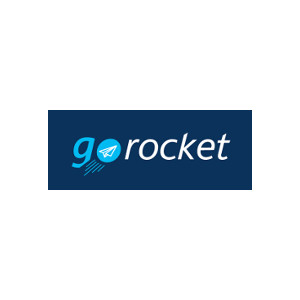
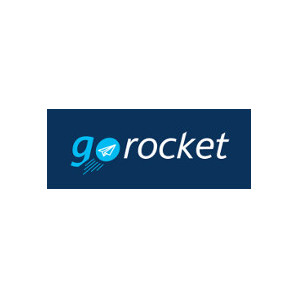
latest commit

Changed region(s): [[0.15, 0.36, 0.84, 0.66], [0.24, 0.42, 0.78, 0.6]]

diff --git a/index.html b/index.html
@@ -62,7 +62,7 @@
 
       <!-- logo -->
       <h1 class="navbar-brand">
-        <a href="#body">irabu</a>
+        <a href="#home">irabu</a>
       </h1>
       <!-- /logo -->
             </div>
@@ -93,13 +93,16 @@
           <div class="row">
 
 
-            <img class="design-icon" src="assets/img/design-color_vector.svg">
+            <!-- <img class="design-icon" src="assets/img/design-color_vector.svg"> -->
             <h1>
-                <span class="span-software">We <span class="design-develop">design and develop</span> <b>SOFTWARE</b><br></span>
-                that aims to <b>SIMPLIFY</b>
+                <span class="span-software"> <b>SOFTWARE</b><br></span>
+                for <b>SIMPLICITY</b>
             </h1>
-            <p>Human centered Software design and implementation that aims at solving a problem with ease</p>
-            <button class="btn btn-default btn-lg action-button hidden" type="button">Learn More</button>
+
+            <br>
+            <h2>
+              Human centered Software design and implementation that aims at solving a problem with ease</h2>
+
               </div>
         </div>
       </div>
@@ -110,8 +113,7 @@
 				<div class="container">
 					<div class="row">
             <div class="text-center">
-              <p class="lead">The Irabu Team consists of designers, developers, technologists, strategists, engineers to writers,  and product developers - but most of all we are thirsty problem solvers with an innate desire to simplify.
-</p>
+              <p class="lead">We are a creative digital agency that is fueled by imagination. We are composed of creative designers and experienced developers.</p>
 
             </div>
 
@@ -135,7 +137,7 @@
       								<div class="service-icon">
       									<i class="fa fa-comments-o  fa-3x"></i>
       								</div>
-      								<h3>Consultation</h3>
+      								<h3>IT Consultation</h3>
       								<p>Help our clients to identify and solve critical technology issues. </p>
       							</div>
       						</div>
@@ -146,7 +148,7 @@
       									<i class="fa fa-desktop  fa-3x"></i>
       								</div>
       								<h3>Web Design and Development</h3>
-      								<p>Lorem Ipsum is simply dummy text of the printing and typesetting industry. </p>
+      								<p>We use creative design thinking to help our clients' tie their brand to their customers.  </p>
       							</div>
       						</div>
 
@@ -268,9 +270,11 @@
           <div class="row">
 
             <div class="sec-title text-center wow animated fadeInDown animated" style="visibility: visible; animation-name: fadeInDown;">
-              <h2>Our Team</h2>
-              <!-- <p>Innovative. Talented. Inspired. Dynamic. Critical. Honest. Eclectic. Temperamental. Crazy. Outlandish. Loud. Enthusiastic. Creative…</p> -->
-              <p class="lead">And these are the people behind all the magic.</p>
+              <h2>WHO DOES IT</h2>
+              <p class="lead">We work side by side as a team , together with our clients to provide inspired digital soluitions.
+                <br>
+No one can do it alone</p>
+              <p class="lead">These are the people behind all the magic.</p>
             </div>
 
           </div>
@@ -312,7 +316,7 @@
 
                   </div>
 
-                  <div class="row animated fadeInUp animated">
+                  <div class="row animated fadeInUps animated">
 
                       <div class="col-md-4 col-md-offset-2">
                           <img src="assets/img/team/loope.jpg" class="img img-responsive" alt="">
@@ -339,37 +343,47 @@
         </div>
       </section>
 
+      <section class="tagline text-center">
+
+        <blockquote cite="http://">
+           <p class="lead">   Whatever good things we build end up building us</p>
+          </blockquote>
+          <p class="tagline_desc"> Jim Ron </p>
+
+
+    </section>
+
       <section id="portfolio">
-  <div class="container">
-    <div class="row">
+        <div class="container">
+          <div class="row">
 
-      <div class="sec-title text-center wow animated fadeInDown animated" style="visibility: visible; animation-name: fadeInDown;">
-        <h2>What We Have Done</h2>
-        <p class="lead">A glimpse at some of the companies we have worked with.</p>
-      </div>
-
-
-
-        <div class="owl-carousel owl-theme">
-        <div > <img src="assets/img/clients/kinu.png" alt="" class="img-responsive"> </div>
-        <div > <img src="assets/img/clients/pacps.png" alt="" class="img-responsive"> </div>
-        <div > <img src="assets/img/clients/gorocket2.jpg" alt="" class="img-responsive"> </div>
-        <div > <img src="assets/img/clients/wn.png" alt="" class="img-responsive"> </div>
-
-        <div > <img src="assets/img/clients/tahmef2.png" alt="" class="img-responsive"> </div>
-        <div > <img src="assets/img/clients/mobiad.png" alt="" class="img-responsive"> </div>
-        <div > <img src="assets/img/clients/citicom.png" alt="" class="img-responsive"> </div>
+            <div class="sec-title text-center wow animated fadeInDown animated" style="visibility: visible; animation-name: fadeInDown;">
+              <h2>What We Have Done</h2>
+              <p class="lead">A glimpse at some of the companies we have worked with.</p>
+            </div>
 
 
 
+              <div class="owl-carousel owl-theme">
+              <div > <img src="assets/img/clients/kinu.png" alt="" class="img-responsive"> </div>
+              <div > <img src="assets/img/clients/pacps.png" alt="" class="img-responsive"> </div>
+              <div > <img src="assets/img/clients/gorocket.png" alt="" class="img-responsive"> </div>
+              <div > <img src="assets/img/clients/wn.png" alt="" class="img-responsive"> </div>
 
+              <div > <img src="assets/img/clients/tahmef2.png" alt="" class="img-responsive"> </div>
+              <div > <img src="assets/img/clients/mobiad.png" alt="" class="img-responsive"> </div>
+              <div > <img src="assets/img/clients/citicom.png" alt="" class="img-responsive"> </div>
+
+
+
+
+              </div>
+
+          </div>
         </div>
 
-    </div>
-  </div>
 
-
-</section>
+      </section>
 
             	<footer id="footer">
                 <div class="footer_top">
@@ -392,7 +406,7 @@
                                 <li>Makingira Street,</li>
                                 <li> Msasani </li>
                                 <li> Dar es Salaam, Tanzania.</li>
-
+                                <a href="https://www.google.com/maps/dir/''/irabu+Systems/@-6.7724837,39.1986205,12z/data=!3m1!4b1!4m8!4m7!1m0!1m5!1m1!1s0x185c4c68409626f7:0xafc9145a784e825!2m2!1d39.2686611!2d-6.7724887"> <li> <i class="fa fa-map-marker fa-x3"></i> Map</li> </a>
                             </ul>
                         </div>
 
@@ -408,6 +422,8 @@
 
                                 <li><i class="fa fa-envelope"></i>
                                   <span> info@irabu.co.tz</span>  </li>
+
+                                  <li> <i class="fa fa-clock-o fa-x3"></i> <span>Mon - Sat:</span> 9.00 AM - 6.00 PM  </li>
 
                               </ul>
                           </div>

diff --git a/assets/css/main.css b/assets/css/main.css
@@ -278,10 +278,12 @@ main > section {
 
     background-color: rgba(0,0,0,.4);
     box-shadow: 0 1px 4px rgba(0, 0, 0, 0.3);
-    padding: 5px 0;
+    padding: 10px 0;
 }
 
 #navigation.animated-header {
+  background:  #282d32;
+  /*box-shadow: none;*/
     padding: 20px 0;
 }
 .navbar-brand {
@@ -309,9 +311,12 @@ h1.navbar-brand {
 /*Home*/
 
 #home {
-    background: #020507;
+    margin-top:100px;
+    background-color: black;
+    background: url(../img/hero-pattern.svg) no-repeat center center;
+    background-size: contain;
     width: 100%;
-    height: 100vh;
+    height: 75vh;
     min-height: 800px;
     z-index: 600;
     position: relative;
@@ -319,18 +324,46 @@ h1.navbar-brand {
 
 
 .hero {
-    padding-top: 10%;
+    margin-top: 5%;
 }
 
 .hero h1 {
-    color: #fff;
+  font-size: 52px;
+  line-height: 54px;
+  letter-spacing: 1px;
+  font-family: "akzidenz-grotesk-next", -apple-system, BlinkMacSystemFont, "Segoe UI", Roboto, Helvetica, Arial, sans-serif, "Apple Color Emoji", "Segoe UI Emoji", "Segoe UI Symbol";
+  font-weight: 600;
+  text-transform: uppercase;
+  padding-bottom: 30px;
+      position: relative;
+
+    /*color: #000;
     font-size: 40px;
     margin-top: 130px;
     margin-bottom: 24px;
     font-weight: 300;
-    line-height: 2em;
+    line-height: 2em;*/
 }
 
+.hero h1:after {
+    border-bottom: 10px solid #282d32;
+    content: "";
+    display: block;
+    left: 45%;
+    bottom: 0;
+    position: absolute;
+    width: 115px;
+}
+
+
+.hero h2 {
+    /*font-size: 33px;
+    line-height: 38px;
+    letter-spacing: 0.25px;
+    font-family: "akzidenz-grotesk-next", -apple-system, BlinkMacSystemFont, "Segoe UI", Roboto, Helvetica, Arial, sans-serif, "Apple Color Emoji", "Segoe UI Emoji", "Segoe UI Symbol";
+    margin-bottom: 24px;*/
+    /*position: relative;*/
+}
 .design-develop {
     border-bottom: 1px solid;
 }
@@ -351,8 +384,9 @@ h1.navbar-brand {
 ==================================================================*/
 
 #about {
-    background-color: #009EE3;
+    background-color: #282d32;;
     color: #fff;
+    padding: 90px 0
 }
 
 #about h3 {
@@ -486,7 +520,7 @@ h1.navbar-brand {
 
 .quote .overlay {
     background: url("../img/slide_bg.png") repeat scroll 0 0 transparent;
-    padding: 100px 0 120px;
+    padding: 150px 0 120px;
 }
 
 
@@ -559,4 +593,36 @@ background-color: #eef4f7;
     font-weight: medium;
     color: #a0a0a0;
 
+}
+
+ .tagline .tagline_desc {
+    font-weight: bold;
+    font-size: 15px;
+}
+
+
+#portfolio{
+      background-color: #eef4f7;
+}
+
+blockquote {
+    padding: 6px 16px;
+    border: none;
+    quotes: "\201C" "\201D";
+    display: inline-block;
+    position: relative;
+}
+
+blockquote:before {
+    content: open-quote;
+    font-weight: bold;
+    position:absolute;
+    top:0;
+    left: 0;
+}
+blockquote:after {
+    content: close-quote;
+    font-weight: bold;
+    position:absolute;
+    top:0; right: 0;
 }
